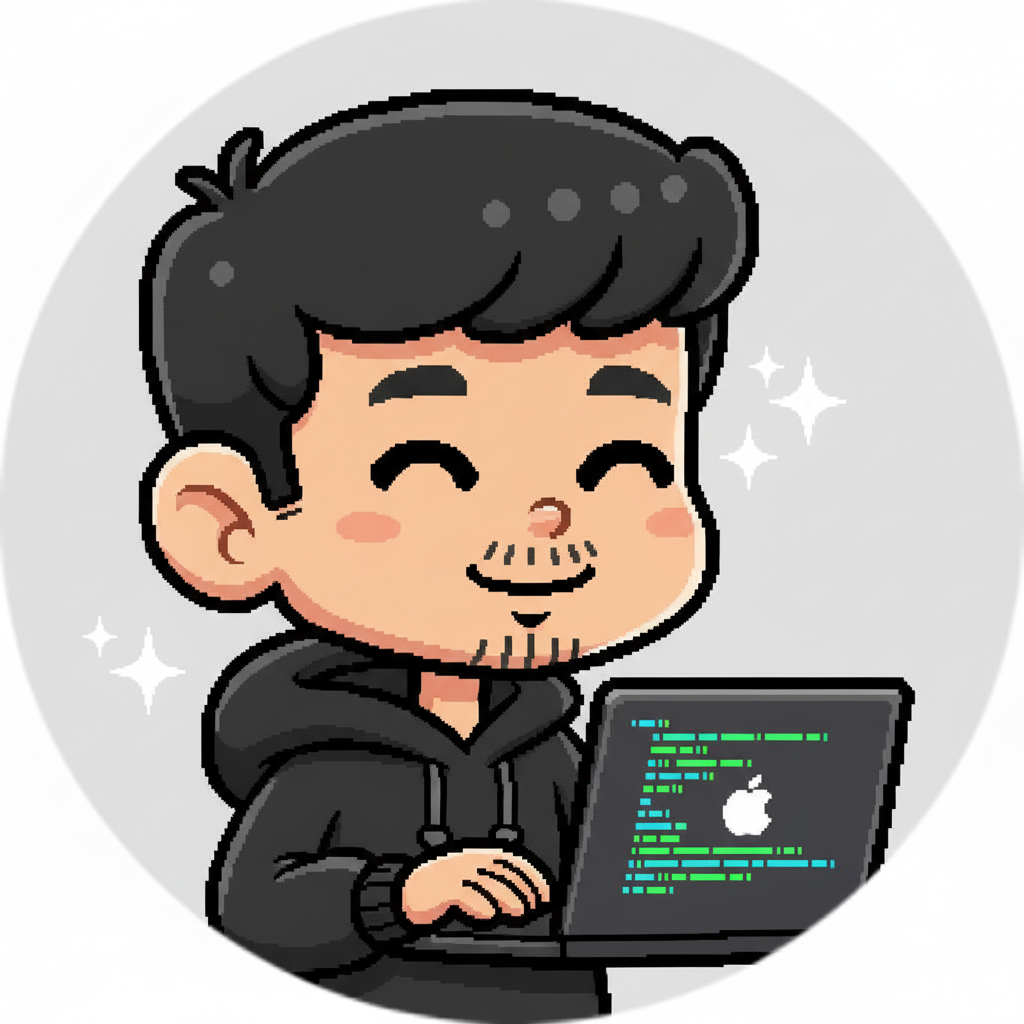
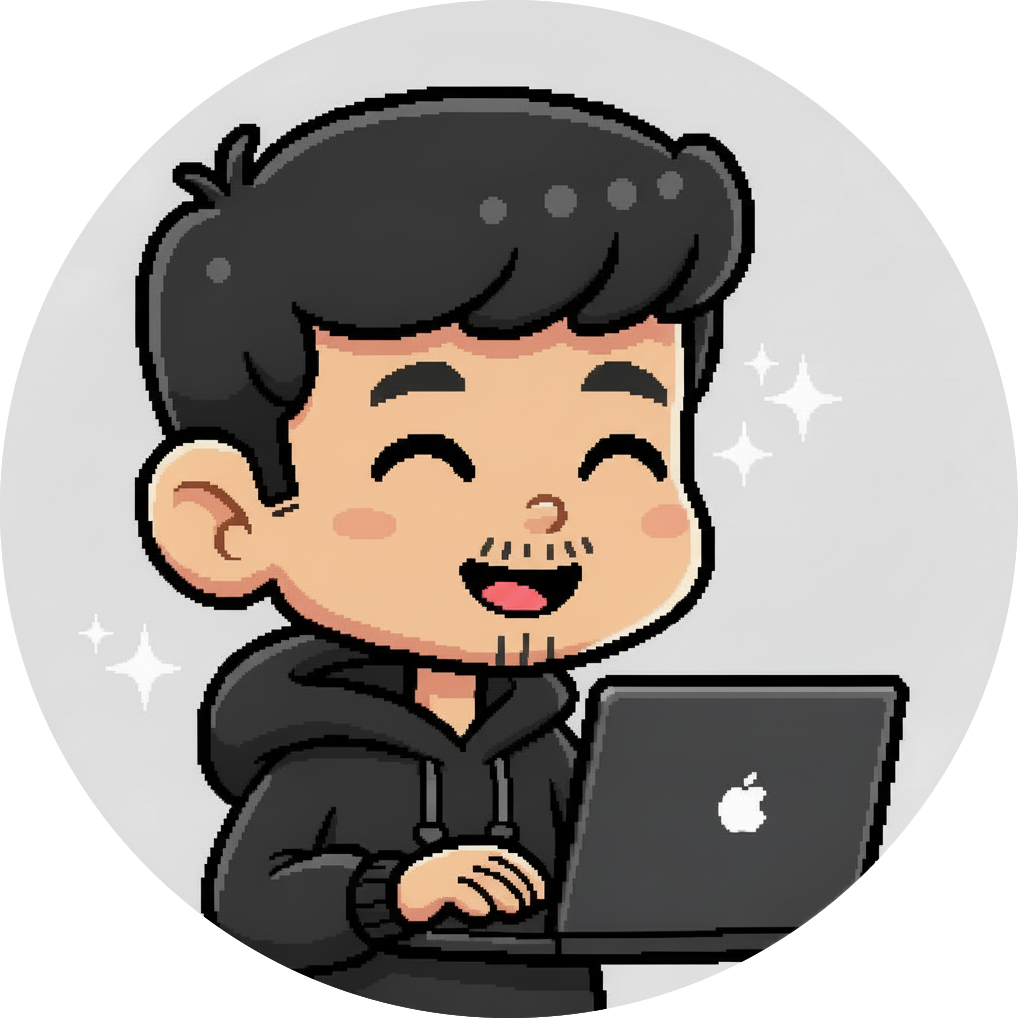
chore: minor improvements for scrapers

diff --git a/src/app/layout.tsx b/src/app/layout.tsx
@@ -47,6 +47,7 @@ export const metadata: Metadata = {
     "Full Stack Developer showcasing projects in web development, mobile apps, and cloud deployment. Explore my portfolio, skills, and experience.",
   keywords: ["portfolio", "developer", "web development", "full stack"],
   metadataBase: new URL("https://bisheshxx.vercel.app/"),
+  // robots: { canonical: "https://bisheshxx.vercel.app/" },
   openGraph: {
     title: "Bishesh Tuladhar | Full Stack Developer Portfolio",
     description:
@@ -70,7 +71,10 @@ export const metadata: Metadata = {
     creator: "@bisheshxx",
     images: "/profile-bishesh.png",
   },
-  robots: "index, follow",
+  alternates: {
+    canonical: "https://bisheshxx.vercel.app/",
+  },
+  // robots: "index, follow",
 };
 
 export default function RootLayout({
